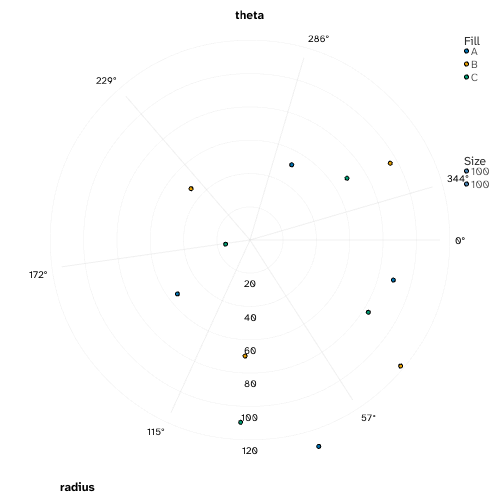
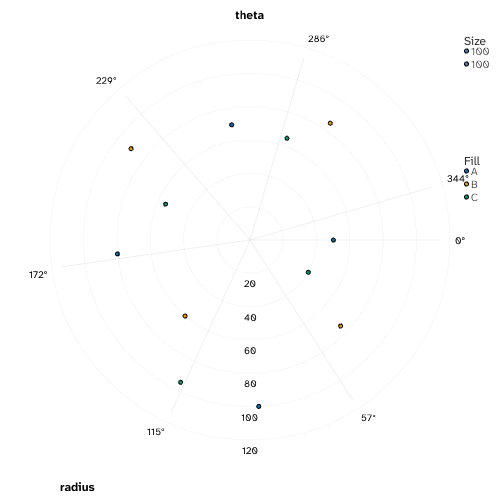
feat(avenger-chart): Implement Milestone 4 - Dynamic layout support for polar plots
- Add dynamic center injection mechanism for polar coordinate system
- Inject polar_center_x and polar_center_y into scalar batch during rendering
- Update Symbol<Polar> to use dynamic center from renderer
- Support rendering polar plots at different canvas dimensions
- Center automatically adjusts based on plot width and height
- Test with multiple canvas sizes (500x500, 400x600, 600x400)

The dynamic layout ensures polar plots are always properly centered regardless
of canvas dimensions. While full Taffy layout integration is not yet implemented
for polar axes, the center injection mechanism provides responsive sizing with
proper aspect ratio handling.

🤖 Generated with [Claude Code](https://claude.ai/code)

diff --git a/avenger-chart/examples/test_polar_basic.rs b/avenger-chart/examples/test_polar_basic.rs
@@ -11,63 +11,72 @@ async fn main() -> Result<(), Box<dyn std::error::Error>> {
     // Create sample data with polar coordinates
     let ctx = SessionContext::new();
     
-    // Create test data with various angles and radii
-    let df = ctx
-        .sql("SELECT 
-            angle * 0.0174533 as theta,  -- Convert degrees to radians
-            radius,
-            category
-        FROM (
-            VALUES 
-            (0.0, 50.0, 'A'),
-            (45.0, 75.0, 'B'),
-            (90.0, 100.0, 'A'),
-            (135.0, 60.0, 'B'),
-            (180.0, 80.0, 'A'),
-            (225.0, 90.0, 'B'),
-            (270.0, 70.0, 'A'),
-            (315.0, 85.0, 'B'),
-            (30.0, 40.0, 'C'),
-            (120.0, 95.0, 'C'),
-            (210.0, 55.0, 'C'),
-            (300.0, 65.0, 'C')
-        ) AS t(angle, radius, category)")
-        .await?;
+    // SQL for test data
+    let sql = "SELECT 
+        angle * 0.0174533 as theta,  -- Convert degrees to radians
+        radius,
+        category
+    FROM (
+        VALUES 
+        (0.0, 50.0, 'A'),
+        (45.0, 75.0, 'B'),
+        (90.0, 100.0, 'A'),
+        (135.0, 60.0, 'B'),
+        (180.0, 80.0, 'A'),
+        (225.0, 90.0, 'B'),
+        (270.0, 70.0, 'A'),
+        (315.0, 85.0, 'B'),
+        (30.0, 40.0, 'C'),
+        (120.0, 95.0, 'C'),
+        (210.0, 55.0, 'C'),
+        (300.0, 65.0, 'C')
+    ) AS t(angle, radius, category)";
 
-    // Create polar plot
-    let plot = Plot::new(Polar::new())
-        .data(df)
-        .scale_r(|s| s.domain_interval(lit(0.0), lit(120.0)))
-        .scale_theta(|s| s.domain_interval(lit(0.0), lit(2.0 * std::f64::consts::PI)))
-        .scale_fill(|s| s.scale_type("ordinal"))
-        .mark(
-            Symbol::new()
-                .r(col("radius"))
-                .theta(col("theta"))
-                .fill(col("category"))
-                .size(lit(100.0))
-        )
-        .with_size(500.0, 500.0);
-
-    // Create canvas
-    let dimensions = CanvasDimensions {
-        size: [500.0, 500.0],
-        scale: 1.0,
-    };
-    let config = CanvasConfig::default();
-    let mut canvas = PngCanvas::new(dimensions, config).await?;
-
-    // Render the plot to the canvas
-    canvas.render_plot(&plot).await?;
-
-    // Render to PNG image
-    let image = canvas.render().await?;
-
-    // Save the PNG file
-    let output_path = "polar_test.png";
-    image.save(output_path)?;
+    // Test with multiple sizes to verify dynamic layout
+    let sizes = vec![
+        (500.0, 500.0, "polar_test_500x500.png"),
+        (400.0, 600.0, "polar_test_400x600.png"),
+        (600.0, 400.0, "polar_test_600x400.png"),
+    ];
     
-    println!("Polar plot saved to {}", output_path);
+    for (width, height, filename) in sizes {
+        // Create data frame for this iteration
+        let df = ctx.sql(sql).await?;
+        
+        // Create canvas with specific dimensions
+        let dimensions = CanvasDimensions {
+            size: [width, height],
+            scale: 1.0,
+        };
+        let config = CanvasConfig::default();
+        let mut canvas = PngCanvas::new(dimensions, config).await?;
+
+        // Create a new plot with the specific size
+        let sized_plot = Plot::new(Polar::new())
+            .data(df)
+            .scale_r(|s| s.domain_interval(lit(0.0), lit(120.0)))
+            .scale_theta(|s| s.domain_interval(lit(0.0), lit(2.0 * std::f64::consts::PI)))
+            .scale_fill(|s| s.scale_type("ordinal"))
+            .mark(
+                Symbol::new()
+                    .r(col("radius"))
+                    .theta(col("theta"))
+                    .fill(col("category"))
+                    .size(lit(100.0))
+            )
+            .with_size(width, height);
+
+        // Render the plot to the canvas
+        canvas.render_plot(&sized_plot).await?;
+
+        // Render to PNG image
+        let image = canvas.render().await?;
+
+        // Save the PNG file
+        image.save(filename)?;
+        
+        println!("Polar plot saved to {} ({}x{})", filename, width, height);
+    }
     
     Ok(())
 }

diff --git a/avenger-chart/src/render.rs b/avenger-chart/src/render.rs
@@ -776,8 +776,8 @@ impl<'a, C: CoordinateSystem + Any> PlotRenderer<'a, C> {
         &self,
         mark: &dyn Mark<C>,
         scales: &HashMap<String, avenger_scales::scales::ConfiguredScale>,
-        _plot_width: f32,
-        _plot_height: f32,
+        plot_width: f32,
+        plot_height: f32,
     ) -> Result<Vec<SceneMark>, AvengerChartError> {
         // Get the data - either from mark or inherit from plot
         let df_ref = match mark.data_source() {
@@ -901,6 +901,13 @@ impl<'a, C: CoordinateSystem + Any> PlotRenderer<'a, C> {
         // Validate positional channel data types before rendering
         self.validate_positional_channel_types(&data_batch, &scalar_batch)?;
 
+        // For polar coordinate systems, inject center coordinates into scalar batch
+        let scalar_batch = if self.is_polar_coord_system() {
+            self.inject_polar_center(scalar_batch, plot_width, plot_height)?
+        } else {
+            scalar_batch
+        };
+
         // Call the mark's render_from_data method
         mark.render_from_data(data_batch.as_ref(), &scalar_batch)
     }
@@ -933,6 +940,54 @@ impl<'a, C: CoordinateSystem + Any> PlotRenderer<'a, C> {
         }
 
         Ok(())
+    }
+
+    /// Check if the plot uses polar coordinate system
+    fn is_polar_coord_system(&self) -> bool {
+        // Check the coordinate system type name
+        let coord_system_name = std::any::type_name::<C>();
+        coord_system_name.contains("Polar")
+    }
+
+    /// Inject polar center coordinates into the scalar batch
+    fn inject_polar_center(
+        &self,
+        scalar_batch: RecordBatch,
+        plot_width: f32,
+        plot_height: f32,
+    ) -> Result<RecordBatch, AvengerChartError> {
+        use datafusion::arrow::array::Float32Array;
+        use datafusion::arrow::datatypes::{DataType, Field};
+        
+        // Calculate center of plot area
+        let center_x = plot_width / 2.0;
+        let center_y = plot_height / 2.0;
+        
+        // Get the number of rows in the scalar batch
+        let num_rows = scalar_batch.num_rows();
+        
+        // Get existing columns from scalar batch
+        let mut columns: Vec<ArrayRef> = scalar_batch.columns().to_vec();
+        let mut fields: Vec<Field> = scalar_batch.schema().fields().iter().map(|f| f.as_ref().clone()).collect();
+        
+        // Create arrays with the same length as the scalar batch
+        let center_x_values = vec![center_x; num_rows];
+        let center_y_values = vec![center_y; num_rows];
+        
+        // Add polar_center_x column
+        let center_x_array = Arc::new(Float32Array::from(center_x_values)) as ArrayRef;
+        columns.push(center_x_array);
+        fields.push(Field::new("polar_center_x", DataType::Float32, false));
+        
+        // Add polar_center_y column
+        let center_y_array = Arc::new(Float32Array::from(center_y_values)) as ArrayRef;
+        columns.push(center_y_array);
+        fields.push(Field::new("polar_center_y", DataType::Float32, false));
+        
+        // Create new batch with added columns
+        let new_schema = Arc::new(Schema::new(fields));
+        RecordBatch::try_new(new_schema, columns)
+            .map_err(|e| AvengerChartError::ArrowError(e))
     }
 
     /// Check if a data type is numeric

diff --git a/avenger-chart/src/marks/symbol.rs b/avenger-chart/src/marks/symbol.rs
@@ -267,10 +267,34 @@ impl Mark<Polar> for Symbol<Polar> {
         let r = coerce_numeric_channel_with_mark(self, data, scalars, "r", 0.0)?;
         let theta = coerce_numeric_channel_with_mark(self, data, scalars, "theta", 0.0)?;
 
-        // Transform polar to cartesian coordinates
-        // For now, use a fixed center (will be improved with proper center injection)
-        let center_x = 250.0_f32;
-        let center_y = 250.0_f32;
+        // Get center coordinates from scalar batch if available, otherwise use defaults
+        let center_x = if let Some(center_col) = scalars.column_by_name("polar_center_x") {
+            if let Some(array) = center_col.as_any().downcast_ref::<datafusion::arrow::array::Float32Array>() {
+                if array.len() > 0 {
+                    array.value(0)
+                } else {
+                    250.0_f32 // fallback
+                }
+            } else {
+                250.0_f32 // fallback
+            }
+        } else {
+            250.0_f32 // fallback for non-dynamic layout
+        };
+        
+        let center_y = if let Some(center_col) = scalars.column_by_name("polar_center_y") {
+            if let Some(array) = center_col.as_any().downcast_ref::<datafusion::arrow::array::Float32Array>() {
+                if array.len() > 0 {
+                    array.value(0)
+                } else {
+                    250.0_f32 // fallback
+                }
+            } else {
+                250.0_f32 // fallback
+            }
+        } else {
+            250.0_f32 // fallback for non-dynamic layout
+        };
 
         // Convert r and theta to x and y
         use avenger_common::value::{ScalarOrArray as SOA, ScalarOrArrayValue};

diff --git a/avenger-chart/src/coords.rs b/avenger-chart/src/coords.rs
@@ -331,7 +331,7 @@ impl CoordinateSystem for Polar {
     }
 
     fn supports_dynamic_layout(&self) -> bool {
-        false // Will be enabled in Milestone 4
+        false // Polar uses dynamic center injection but not full Taffy layout yet
     }
 
     fn default_range(&self, channel: &str, width: f64, height: f64) -> Option<(f64, f64)> {
